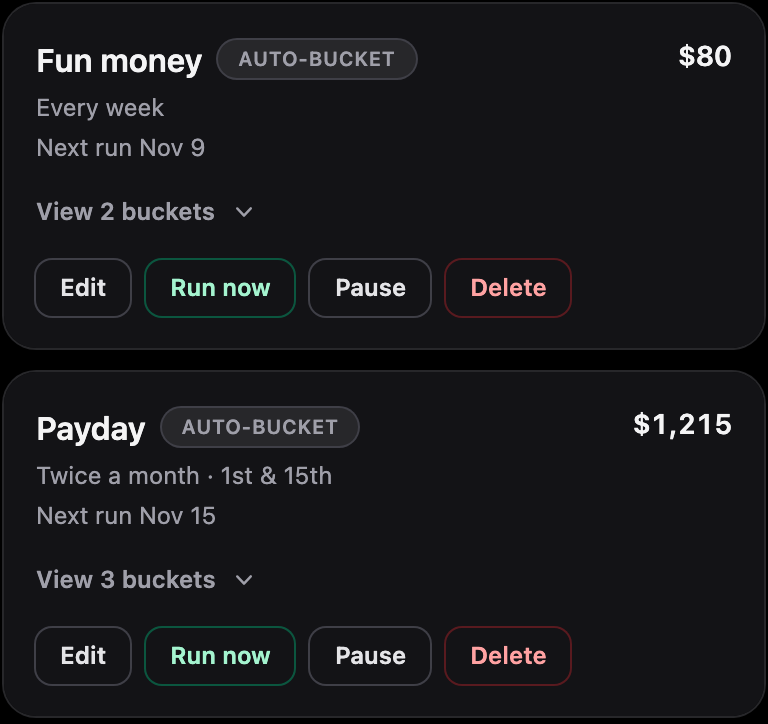
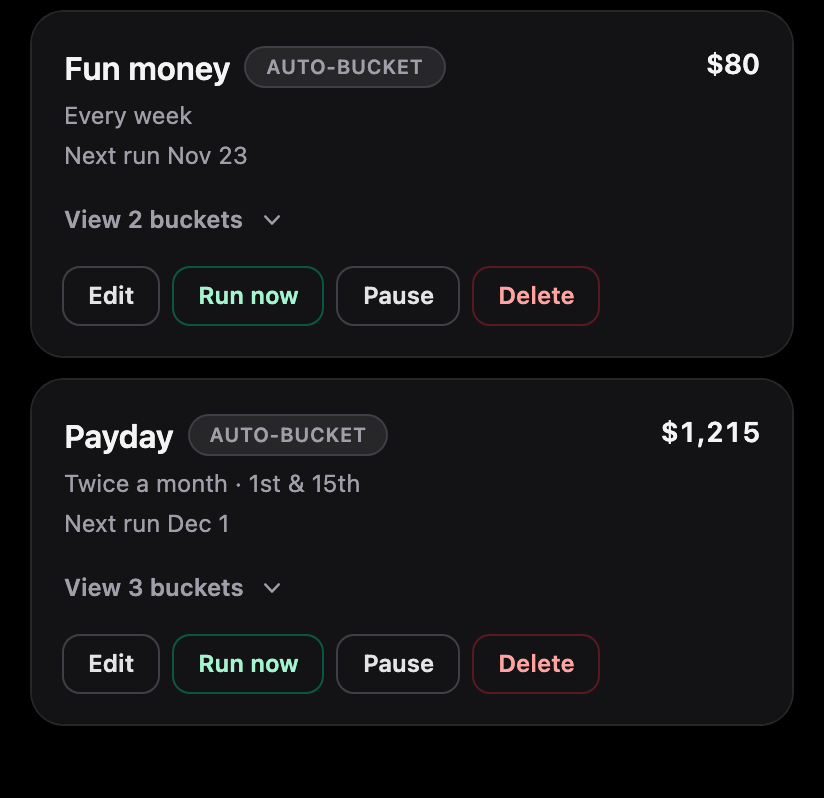
v1.19.39: Site feature crops keep the app's side margins

diff --git a/tests/pwa-screenshots/featureShots.ts b/tests/pwa-screenshots/featureShots.ts
@@ -12,12 +12,14 @@ import { signInPwaScreenshotAdmin, waitForNavSettled } from '../pwa-media/helper
  * Buckets / Auto-bucket / History layout shifts. Run BEFORE the rebalance step
  * (it turns Unbucketed red and adds a History row).
  */
-const CARD = { x: 14, width: 384 } as const
+// Full viewport width, so cards keep the page's 16px side margin. Heights match
+// the site's frame aspect ratios (824×798 top row, 824×880 bottom row at 2x).
+const CARD = { x: 0, width: 412 } as const
 
 const CROPS = {
-  autoBucket: { ...CARD, y: 392, height: 362 },
-  history: { ...CARD, y: 236, height: 372 },
-  groups: { ...CARD, y: 374, height: 418 },
+  autoBucket: { ...CARD, y: 388, height: 399 },
+  history: { ...CARD, y: 224, height: 399 },
+  groups: { ...CARD, y: 364, height: 440 },
   hideAmounts: { x: 0, width: 412, y: 72, height: 778 },
 } as const
 
